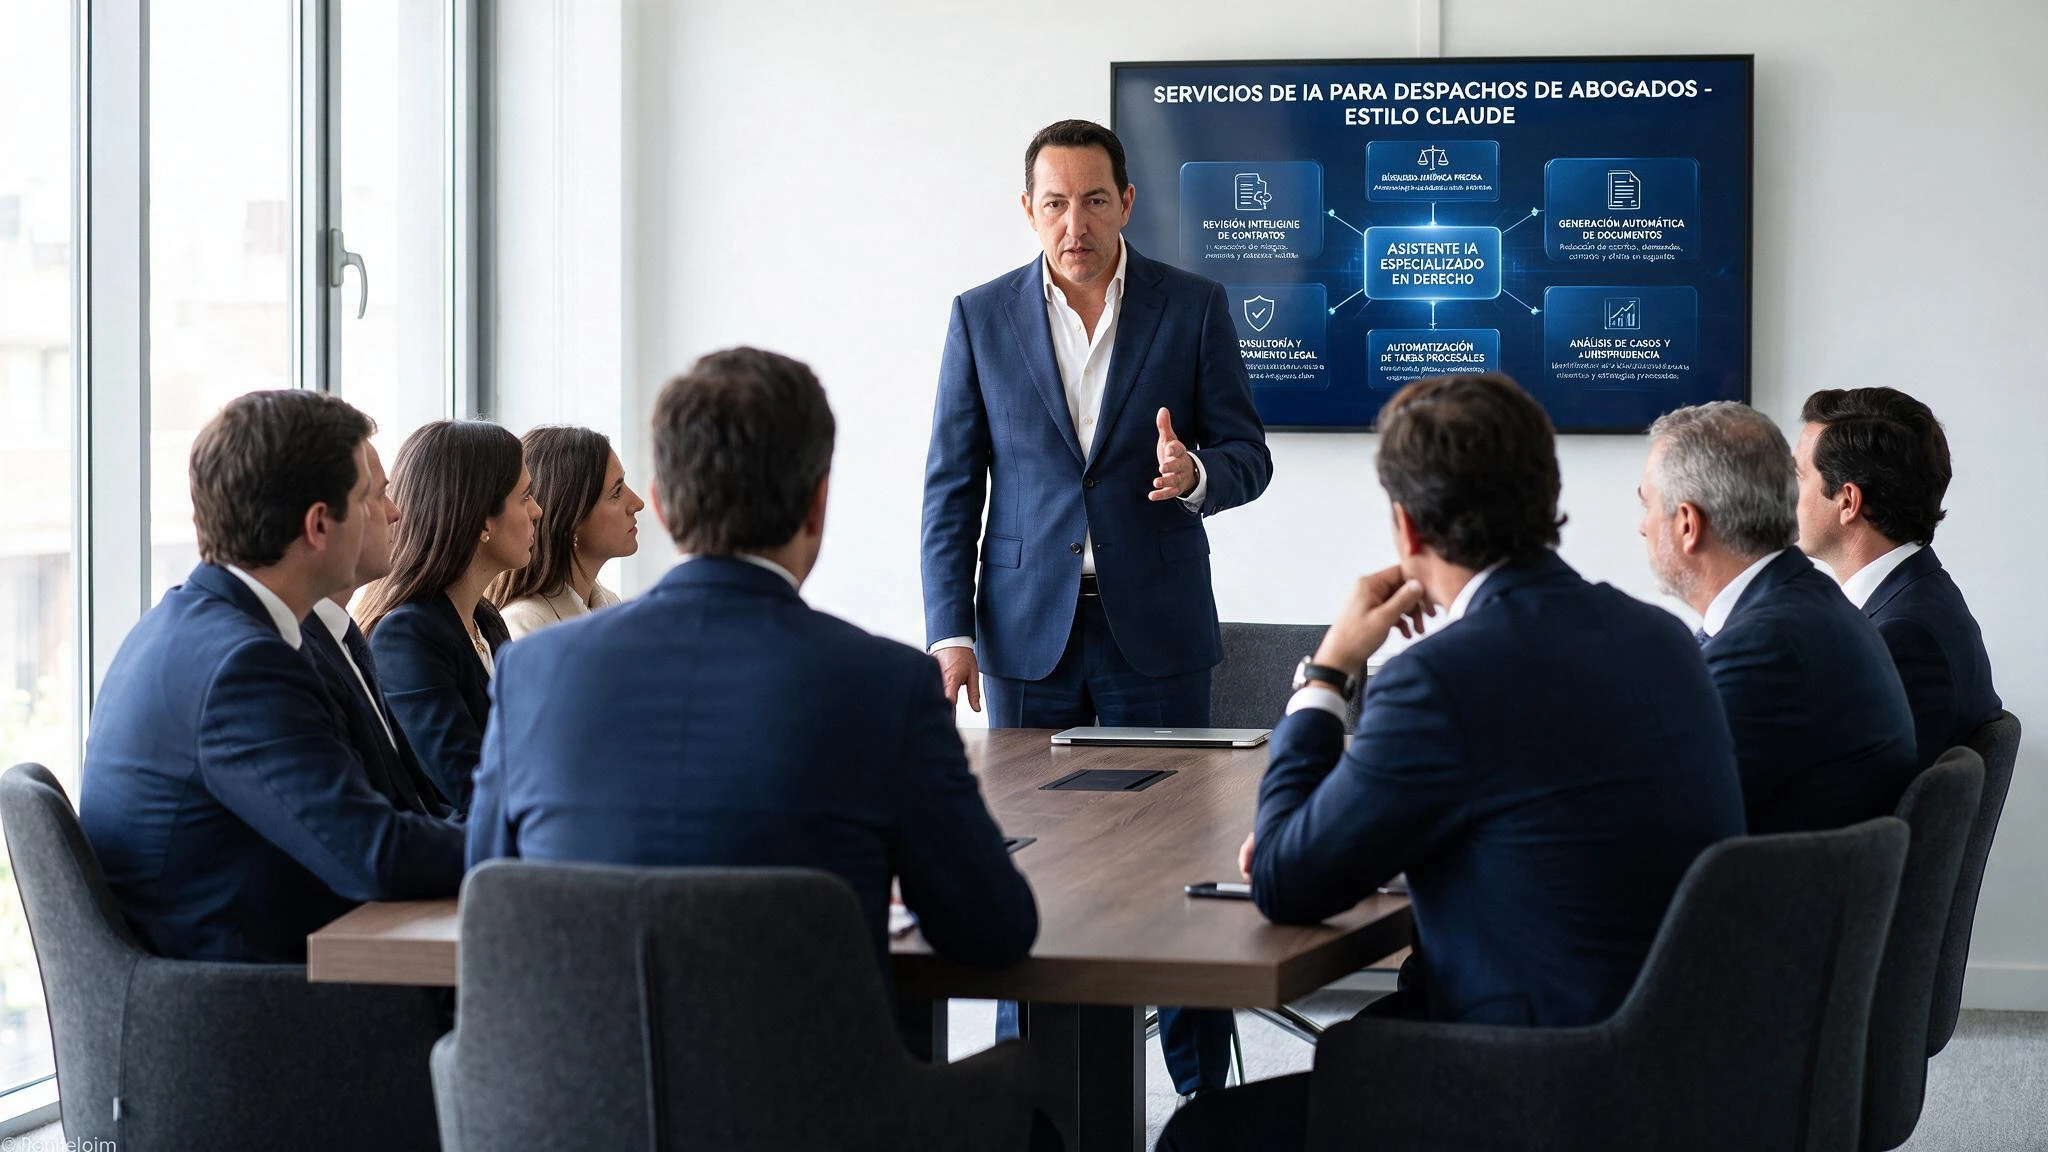
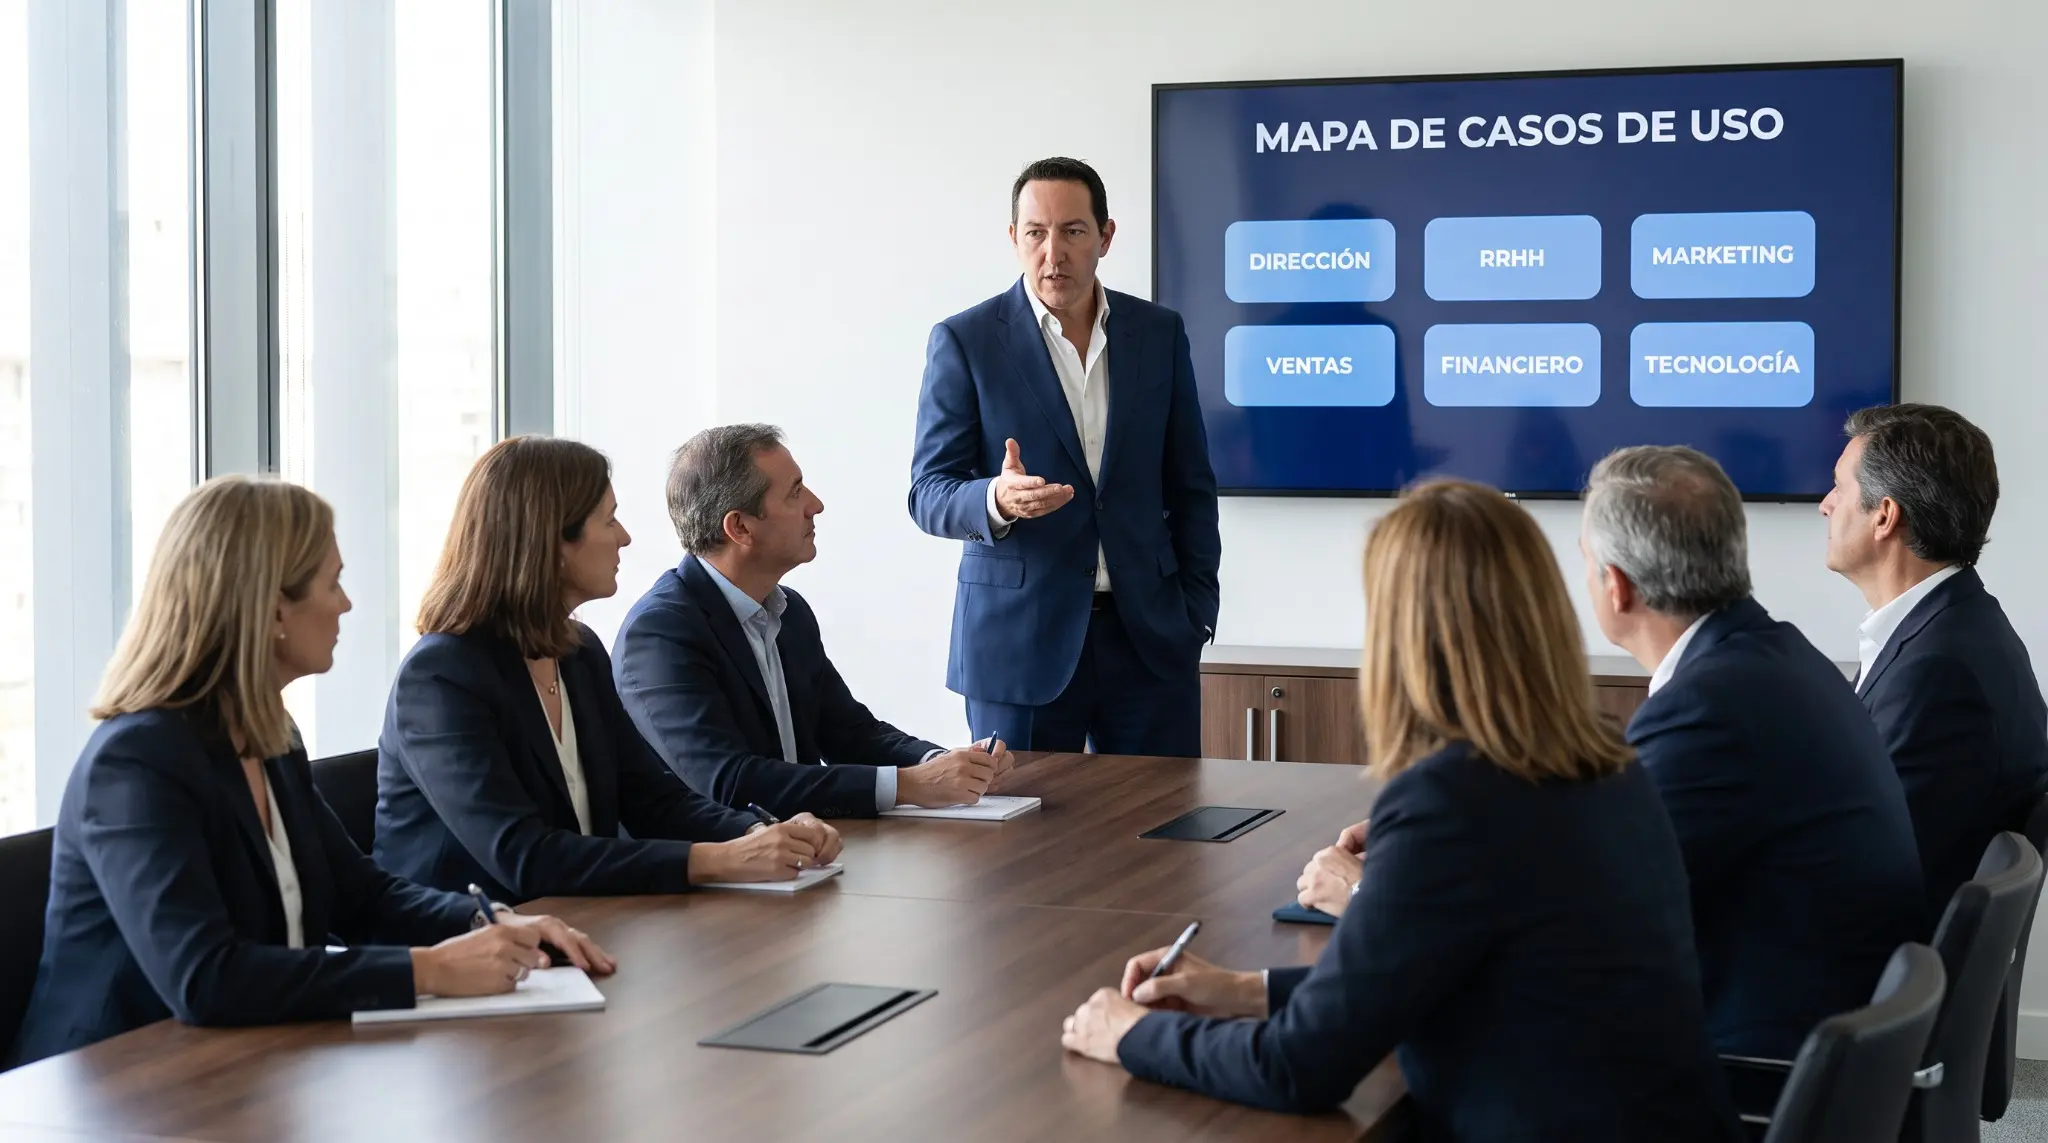
Fotos de sala de juntas con paridad y miradas al ponente
- prog_hero_comite.webp: nueva escena lateral, paridad, portatiles abiertos, todos mirando al ponente
- prog_hero_ficha.webp: segunda escena lateral, hero propio de la ficha del programa
- prog_casos_uso.webp: pantalla MAPA DE CASOS DE USO en espanol, sin marca de terceros
- index.html: hero reencuadrado (center 8%) y posicion especifica en movil
- cache busting ?v=20260729

diff --git a/index.html b/index.html
@@ -33,7 +33,7 @@ body{font-family:var(--sans);color:var(--antracita);font-size:15px;line-height:1
 /* ── HEADER SITIO ── */
 
 /* ── HERO CON PORTADA ── */
-.hero{position:relative;color:var(--crema);padding:calc(var(--header-h) + 72px) 8% 72px;overflow:hidden;background:linear-gradient(90deg,rgba(8,24,58,.92) 0%,rgba(8,24,58,.55) 48%,rgba(8,24,58,.22) 100%),url('assets/escenas/prog_hero_comite.webp') center 32%/cover no-repeat}
+.hero{position:relative;color:var(--crema);padding:calc(var(--header-h) + 72px) 8% 72px;overflow:hidden;background:linear-gradient(90deg,rgba(8,24,58,.92) 0%,rgba(8,24,58,.55) 48%,rgba(8,24,58,.22) 100%),url('assets/escenas/prog_hero_comite.webp?v=20260729') center 8%/cover no-repeat}
 .hero::after{content:"◆";position:absolute;right:-40px;bottom:-90px;font-size:340px;color:var(--bronze);opacity:.08;line-height:1}
 .eyebrow{font-size:11px;letter-spacing:3px;text-transform:uppercase;color:var(--bronze-light);margin-bottom:18px}
 .hero h1{font-family:var(--serif);font-weight:400;font-size:clamp(30px,4.4vw,52px);line-height:1.15;max-width:820px}
@@ -105,7 +105,7 @@ main{padding:0 8% 80px}
 .quote p{font-family:var(--serif);font-style:italic;font-size:20px;color:var(--azul-prof)}
 .quote span{display:block;margin-top:10px;font-size:11px;letter-spacing:2px;text-transform:uppercase;color:var(--gris-medio)}
 @media(max-width:640px){.hero{padding:64px 6% 48px}main{padding:0 6% 60px}.dept-banner{height:170px;padding:20px}.dept-banner h2{font-size:28px}.form-embed{height:1050px}}
-</style>
+@media(max-width:760px){.hero{background-position:74% 6%}}</style>
 </head>
 <body>
 <div class="page">

diff --git a/programa-ia-comites.html b/programa-ia-comites.html
@@ -67,7 +67,7 @@
   <a href="https://cal.com/stoa-consulting-1e59mq/30min" class="drawer-cta" target="_blank" rel="noopener">Agendar Stoa Call →</a>
 </aside>
 
-<section class="page-hero con-foto" style="background-image:url('assets/escenas/prog_hero_comite.webp')">
+<section class="page-hero con-foto" style="background-image:url('assets/escenas/prog_hero_ficha.webp?v=20260729')">
   <span class="eyebrow">Programa ejecutivo · Edición III</span>
   <h1>Tu comité decide sobre IA. Que lo haga con <em>criterio.</em></h1>
   <p class="hero-lede">Cuatro sesiones. Cuatro decisiones firmadas. Un programa para comités de dirección y primer nivel ejecutivo que no explica qué es la inteligencia artificial: te obliga a decidir qué vas a hacer con ella.</p>
@@ -186,7 +186,7 @@
     </div>
   </article>
 
-  <div class="banda" style="background-image:url('assets/escenas/prog_casos_uso.webp')">
+  <div class="banda" style="background-image:url('assets/escenas/prog_casos_uso.webp?v=20260729')">
     <span class="fil">◆</span>
     <p>Cada sesión termina cuando el grupo acuerda algo, no cuando se acaba el guion.<span>Módulo 02 · Mapa de casos de uso</span></p>
   </div>

diff --git a/programas.html b/programas.html
@@ -84,7 +84,7 @@
   <p style="margin-bottom:40px">Todos los programas son de <strong>convocatoria abierta</strong>: grupos mixtos de directivos de distintas empresas y sectores. Calendario fijo y aforo limitado, porque la discusión entre pares es parte del método.</p>
 
   <article class="prog">
-    <img class="prog-img" src="assets/escenas/prog_hero_comite.webp" alt="Sesión de comité de dirección">
+    <img class="prog-img" src="assets/escenas/prog_hero_comite.webp?v=20260729" alt="Sesión de comité de dirección">
     <div>
       <div class="prog-tag">Programa ejecutivo · Edición III</div>
       <h3>IA para Comités de <em>Dirección</em></h3>
